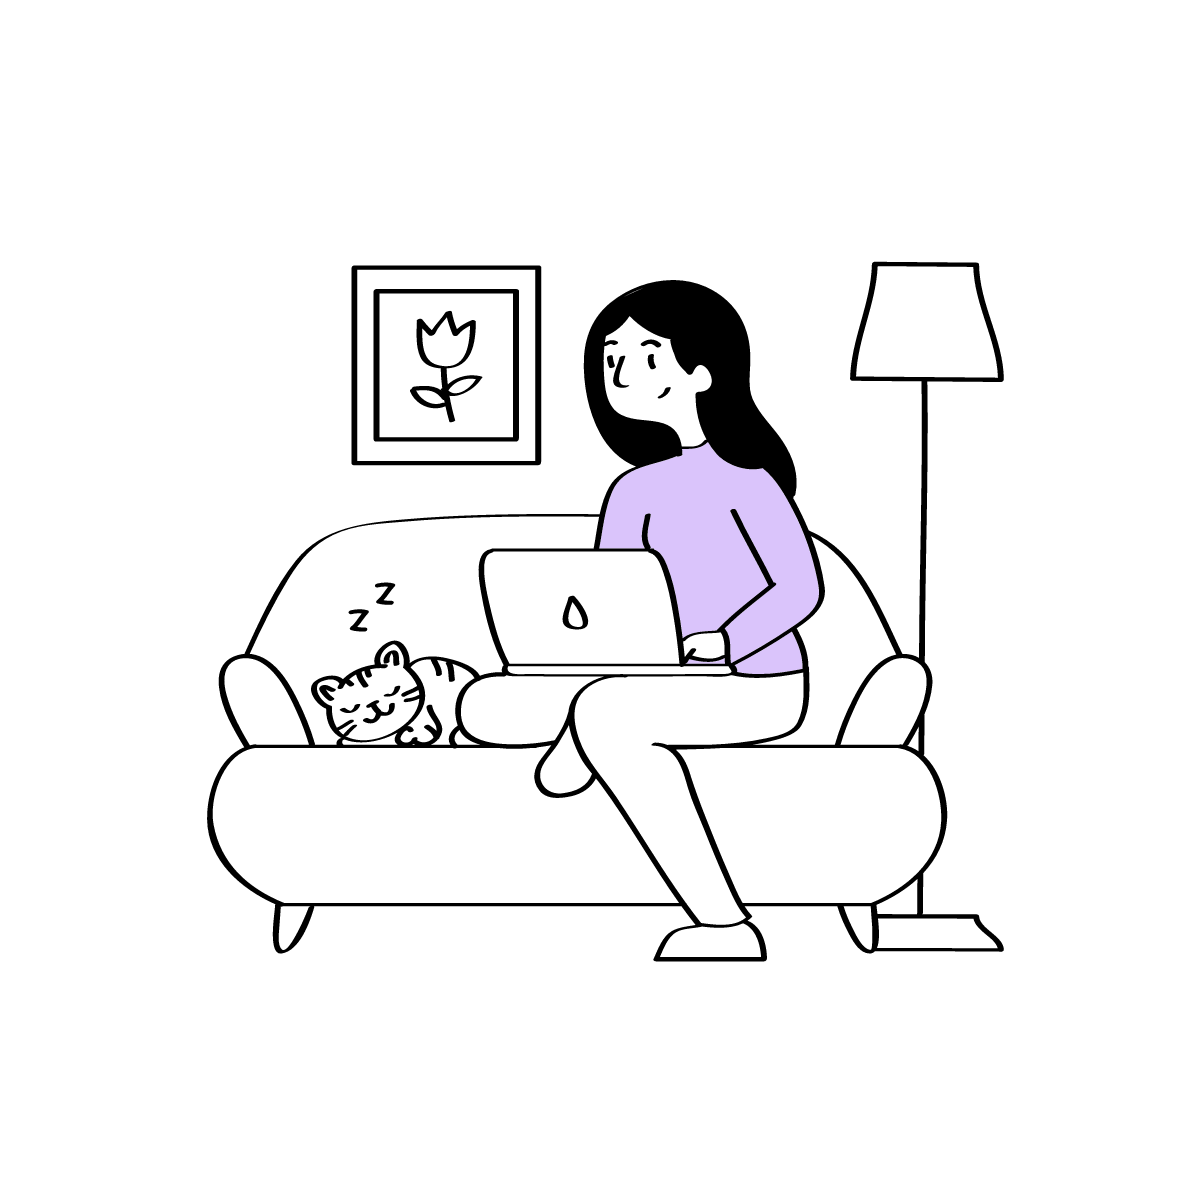
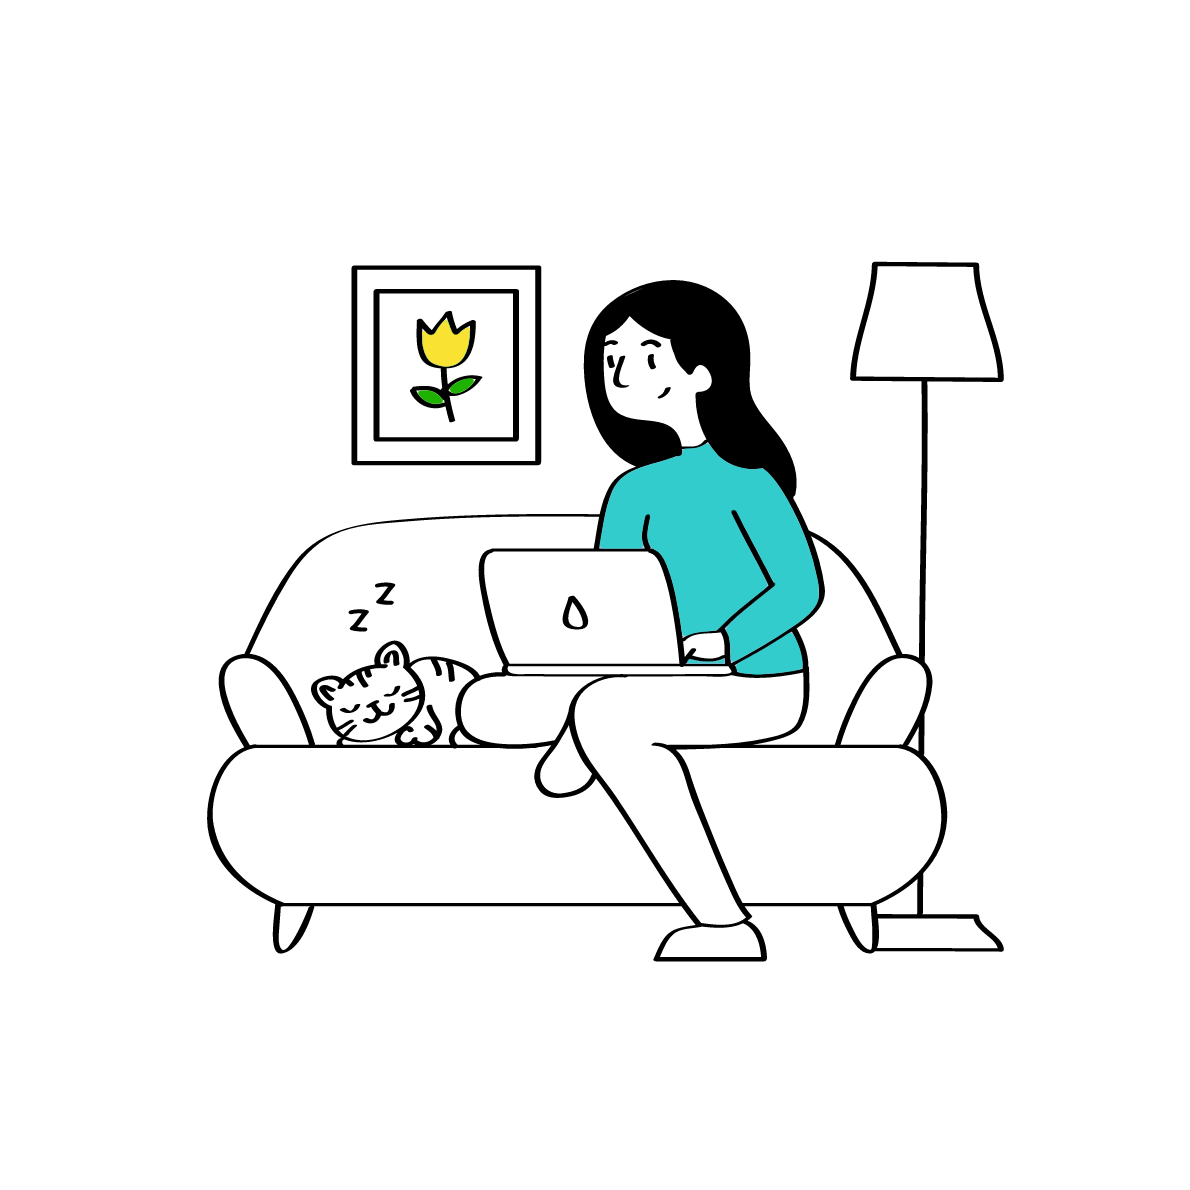
Colorized splash image

Changed region(s): [[0.4975, 0.3731, 0.684, 0.5908], [0.342, 0.2798, 0.4042, 0.342]]

diff --git a/flutter_service_worker.js b/flutter_service_worker.js
@@ -5,8 +5,8 @@ const CACHE_NAME = 'flutter-app-cache';
 const RESOURCES = {
   "CNAME.txt": "fad504a83a68b092f908fdfce19a4228",
 "version.json": "d3041753556adc4d41dab9b9a10ddb89",
-"index.html": "1d88b9d214ff0724ae76bdac44e113e9",
-"/": "1d88b9d214ff0724ae76bdac44e113e9",
+"index.html": "f4ec87103f4e7bf1712e9e2d11564c84",
+"/": "f4ec87103f4e7bf1712e9e2d11564c84",
 "main.dart.js": "62430594a0d5a20c2889f45df65b5dca",
 "flutter.js": "a85fcf6324d3c4d3ae3be1ae4931e9c5",
 "favicon.png": "7760e75b3efdbc4b90b918565c9b4395",
@@ -44,7 +44,7 @@ const RESOURCES = {
 "assets/assets/images/logo.png": "3f8f1a650d57d95488d0db8a67d8fc24",
 "assets/assets/images/splash_3.png": "54b2889511d311463cf331284d9197bb",
 "assets/assets/images/ps4_console_blue_4.png": "b9d0ed66e7040ef25f41501c143734b5",
-"assets/assets/images/work_from_home.png": "30cccc6bff142e87119657af897a8893",
+"assets/assets/images/work_from_home.png": "01e26a3d55e273cc45f18c5e6994c20e",
 "assets/assets/images/splash_2.png": "3580b1c0bb9f244b51d8042b8e762bf5",
 "assets/assets/images/Image%2520Banner%25203.png": "ac22df8189dc403ff2e113489fb114b4",
 "assets/assets/images/Image%2520Banner%25202.png": "1d233e6648a139a8b30d63489e852fc8",

diff --git a/index.html b/index.html
@@ -35,7 +35,7 @@
 
     <script>
       // The value below is injected by flutter build, do not touch.
-      var serviceWorkerVersion = '535157777';
+      var serviceWorkerVersion = '1678940080';
     </script>
     <!-- This script adds the flutter initialization JS code -->
     <script src="main.dart.js" defer></script>
